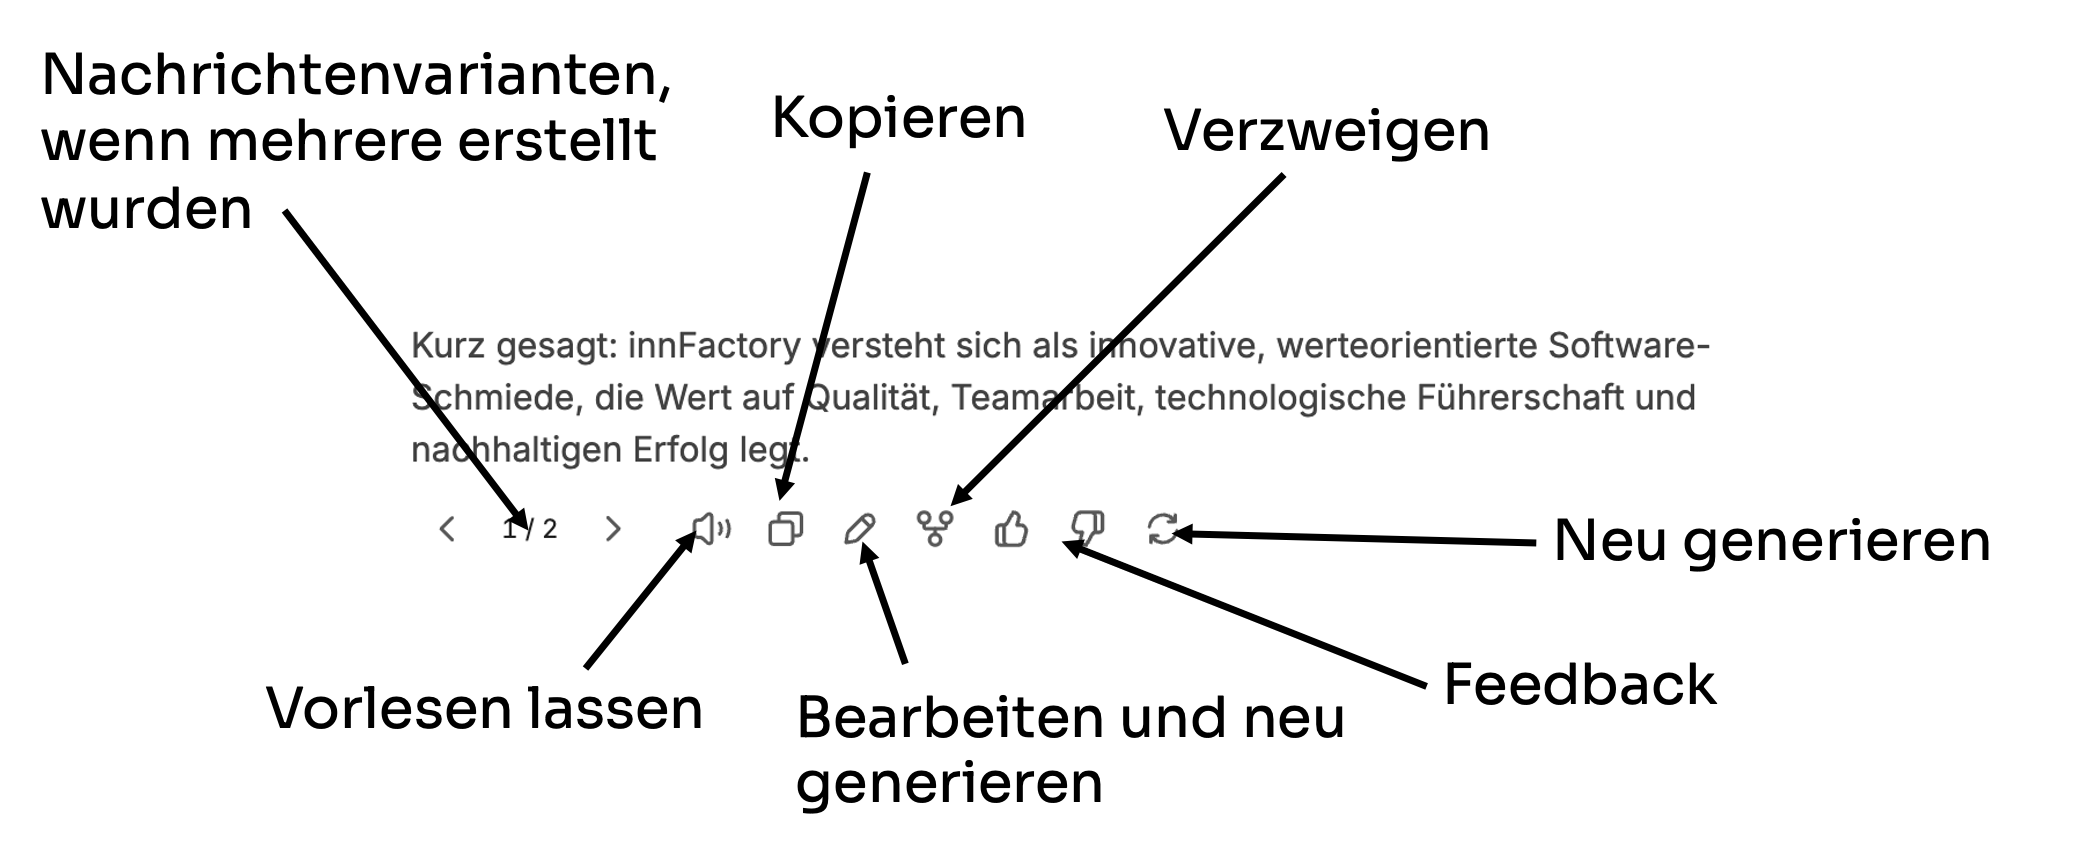
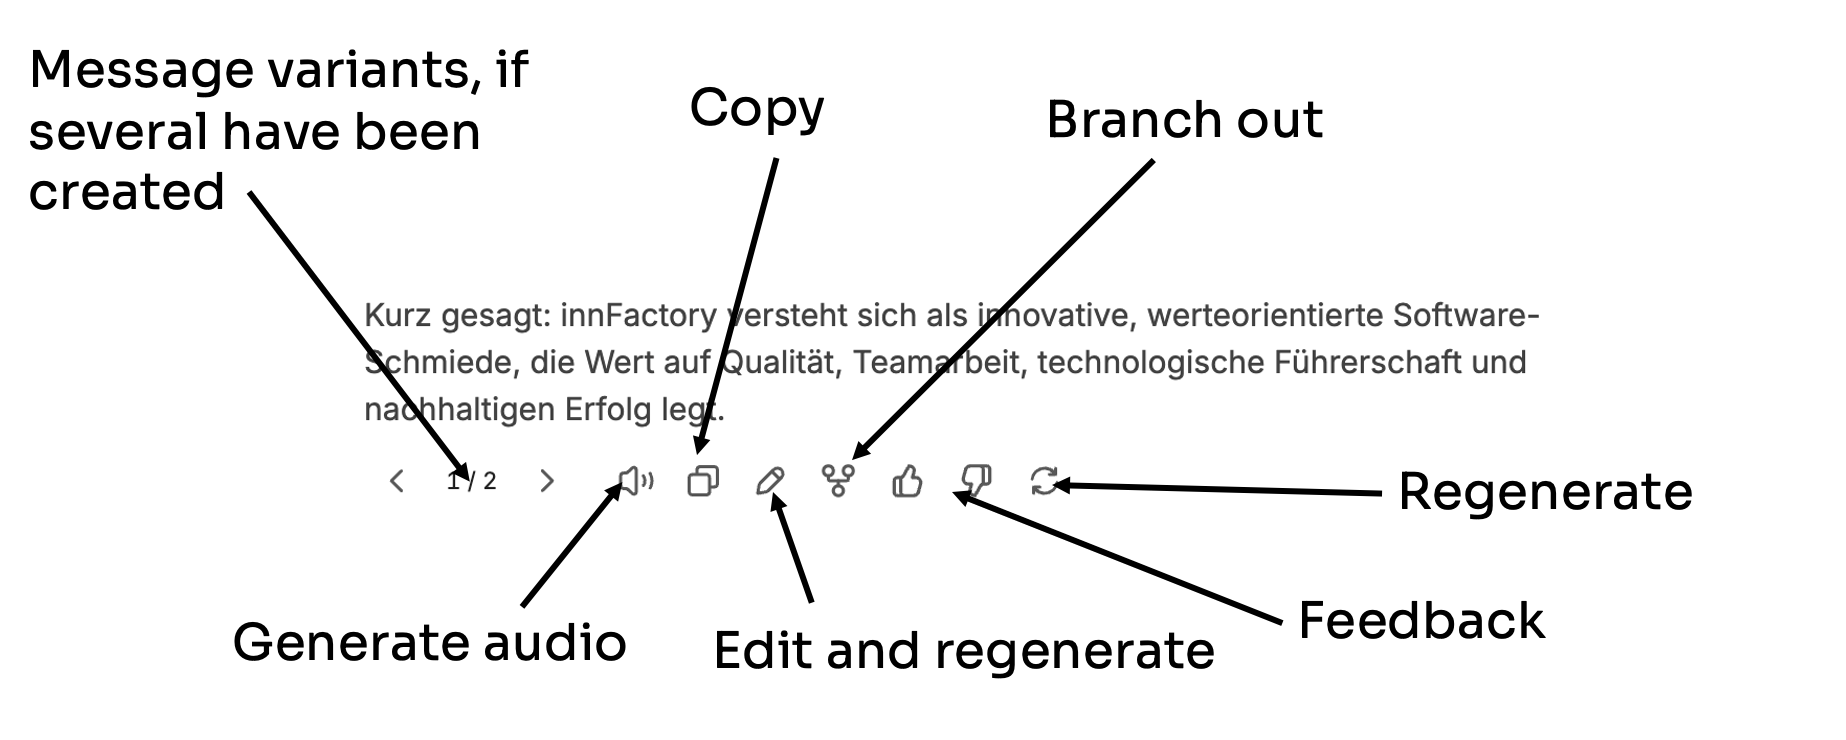
fix: translations, images en

diff --git a/src/content/docs/en/company-gpt/chat.md b/src/content/docs/en/company-gpt/chat.md
@@ -42,10 +42,10 @@ Messages in the chat have quick actions:
 ![Chat message quick actions](chat-quick-actions.png)
 
 - **Regenerate** and **Message Variants**: Using `Regenerate`, several response variants can be generated, between which you can switch.
-- **Read Aloud**: Using [Text-to-Speech](/en/company-gpt/einstellungen/#text-to-speech), the message can be read aloud using the set engine.
+- **Generate audio**: Using [Text-to-Speech](/en/company-gpt/einstellungen/#text-to-speech), the message can be read aloud using the set engine.
 - **Copy**: Copies the entire content of the message to the clipboard.
 - **Edit and regenerate**: The message can be edited afterwards and either saved or regenerated with changes. This is useful if you want to add or change information in the context.
-- **Branch**: Allows you to branch off at a certain point with all previous messages. This is helpful if, for example, you want to think in different directions.
+- **Branch out**: Allows you to branch off at a certain point with all previous messages. This is helpful if, for example, you want to think in different directions.
 - **Feedback**: Feedback on messages is only retained in context, but this allows the user to signal whether a message was good or not.
 
 ## Sharing and exporting
@@ -53,6 +53,7 @@ Messages in the chat have quick actions:
 Message histories can be shared publicly or exported to different file formats. 
 
 ![share-and-export](share-and-export-en.png)
+
 ### Sharing 
 
 Message histories can be shared via links. To do this, an anonymized, publicly available link is generated that can be accessed by anyone. A QR code can also be created. 

diff --git a/src/content/docs/en/company-gpt/integrationen/mcp-server.md b/src/content/docs/en/company-gpt/integrationen/mcp-server.md
@@ -13,7 +13,7 @@ More information about MCP can be found here: [Prompt Engineering / MCP](/en/pro
 
 MCP servers can be added in the right sidebar via the MCP settings. Admin users can configure how MCP servers can be used. Permissions can be assigned for use, creation, and sharing. 
 
-![add-mcp](add-mcp-en.png))
+![add-mcp](add-mcp-en.png)
 
 Clicking on **+ Add MCP** opens the dialog for adding MCP servers. 
 
@@ -42,4 +42,4 @@ Once an MCP Server has been added, it can be shared. To do this, click on the se
 
 In the detail menu, you can select with whom and with what rights the MCP server should be shared.
 
-![detail-share-mcp](detail-share-mcp.png)
+![detail-share-mcp](share-mcp-detail-en.png)

diff --git a/src/content/docs/en/company-gpt/agenten.md b/src/content/docs/en/company-gpt/agenten.md
@@ -74,7 +74,7 @@ Tools are built-in tools that can be used by the agent. These can of course be c
 
 Actions are external API interfaces that can be connected directly via [OpenAPI-compatible schemas](https://spec.openapis.org/oas/latest.html). 
 
-![actions-open-api](actions-open-api.png)
+![actions-open-api](actions-open-api-en.png)
 
 :::tip
 This functionality is very advanced, but also outdated; it is better to connect API endpoints via your own MCP servers.
